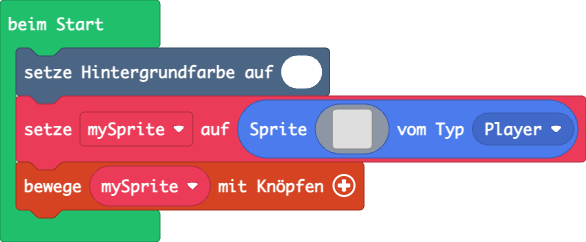
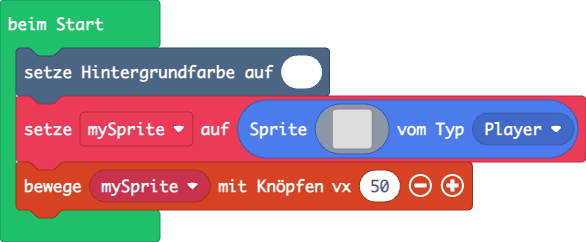
Aktualisiere pxt.json, main.blocks, main.ts

Changed region(s): [[0.5529, 0.6653, 0.8294, 0.8967], [0.1536, 0.6653, 0.3686, 0.8678]]

diff --git a/main.ts b/main.ts
@@ -1,30 +1,20 @@
 scene.setBackgroundColor(1)
 let mySprite = sprites.create(img`
-        . . . . . . . . . . . . . . . . 
-            . . . . . . . . . . . . . . . . 
-            . . . . . . . . . . . . . . . . 
-            . . . . . . . . . . . . . . . . 
-            . . . . . . . . . . . . . . . . 
-            . . . . . . . . . . . . . . . . 
-            . . . . . . . . . . . . . . . . 
-            . . . . . . . . . . . . . . . . 
-            . . . . . . . . . . . . . . . . 
-            . . . . . . . . . . . . . . . . 
-            . . . . . . . . . . . . . . . . 
-            . . . . . . . . . . . . . . . . 
-            . . . . . . . . . . . . . . . . 
-            . . . . . . . . . . . . . . . . 
-            . . . . . . . . . . . . . . . . 
-            . . . . . . . . . . . . . . . .
+    . . . . . . . . . . . . . . . . 
+    . . . . . . . . . . . . . . . . 
+    . . . . . . . . . . . . . . . . 
+    . . . . . . . . . . . . . . . . 
+    . . . . . . . . . . . . . . . . 
+    . . . . . . . . . . . . . . . . 
+    . . . . . . . . . . . . . . . . 
+    . . . . . . . . . . . . . . . . 
+    . . . . . . . . . . . . . . . . 
+    . . . . . . . . . . . . . . . . 
+    . . . . . . . . . . . . . . . . 
+    . . . . . . . . . . . . . . . . 
+    . . . . . . . . . . . . . . . . 
+    . . . . . . . . . . . . . . . . 
+    . . . . . . . . . . . . . . . . 
+    . . . . . . . . . . . . . . . . 
     `, SpriteKind.Player)
-controller.moveSprite(mySprite
-// Dein Projektcode
-game.onUpdate(function () {
-    // Hier könnte der Sprite-Code eingefügt werden
-    let mySprite20241022T182647307Z = sprites.create(img`
-        cccccccccccccccb
-        ddddddddddbbdd
-        bdbbddbbbbbbcdd
-        ...
-    `, SpriteKind.Player)
-})
+controller.moveSprite(mySprite, 50)
